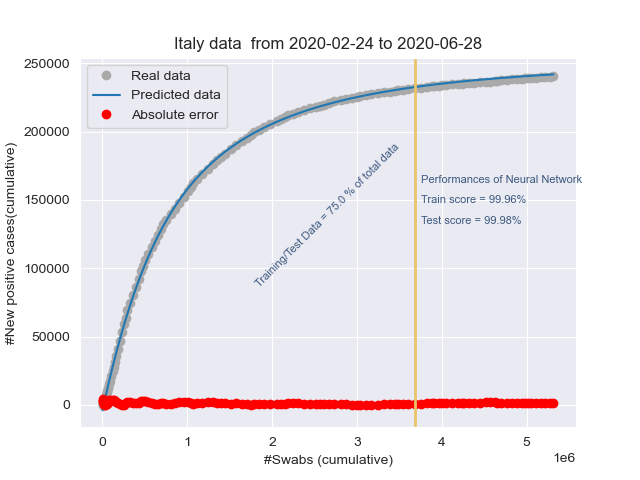
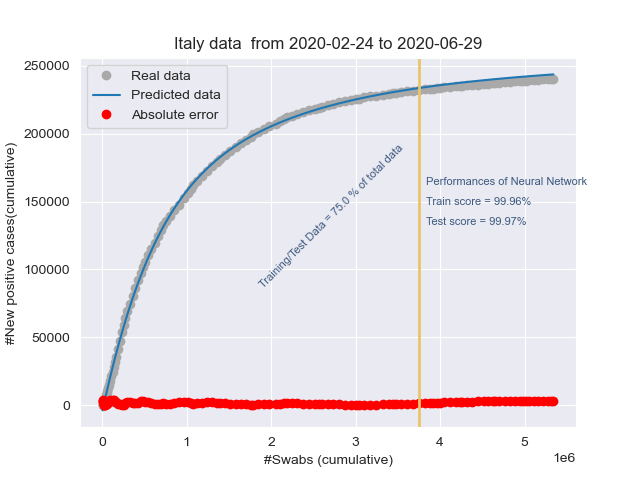
Add files via upload

diff --git a/stat_Friuli Venezia Giulia.html b/stat_Friuli Venezia Giulia.html
@@ -1,1 +1,1 @@
-<!DOCTYPE html><html lang="it"><head><title>Results</title><meta charset="utf-8"><meta name="viewport" content="width=device-width, initial-scale=1"><link rel="stylesheet" href="bootstrap.min.css"><script src="https://ajax.googleapis.com/ajax/libs/jquery/3.4.1/jquery.min.js"></script><script src="https://maxcdn.bootstrapcdn.com/bootstrap/3.4.1/js/bootstrap.min.js"></script></head><body><h3>Day: 2020-06-28</h3><p class="lead my-3">New positive cases: <b>1</b></p><p class="lead my-3">Variation of positive cases: <b>inf%</b></p><p class="lead my-3">Number of swabs: <b>1130.0</b></p><p class="lead my-3">Variation of swabs: <b>0.61%</b></p><p class="lead my-3">Postive cases/Swabs: <b>0.09 %</b></p><p class="lead my-3">Number of people admitted to Intensive care: <b>0</b></p><p class="lead my-3">Number of recovered people: <b>5.0</b></p><p class="lead my-3">Number of dead people: <b>0.0</b></p><h3>Total</h3><p class="lead my-3">Population of  Friuli Venezia Giulia: <b>1215220</b> <a href="http://dati.istat.it/Index.aspx?QueryId=18548" target="_blank">ISTAT data</a></p><p class="lead my-3">Total number of positive cases from 2020-02-24 00:00:00 to 2020-06-28: <b> 3308</b></p><p class="lead my-3">Total number of swabs from 2020-02-24 00:00:00 to 2020-06-28: <b> 186781</b></p><p class="lead my-3">TotalSwabs/Population: <b> 15.37%</b></p></body></html>
+<!DOCTYPE html><html lang="it"><head><title>Results</title><meta charset="utf-8"><meta name="viewport" content="width=device-width, initial-scale=1"><link rel="stylesheet" href="bootstrap.min.css"><script src="https://ajax.googleapis.com/ajax/libs/jquery/3.4.1/jquery.min.js"></script><script src="https://maxcdn.bootstrapcdn.com/bootstrap/3.4.1/js/bootstrap.min.js"></script></head><body><h3>Day: 2020-06-29</h3><p class="lead my-3">New positive cases: <b>0</b></p><p class="lead my-3">Variation of positive cases: <b>-100.0%</b></p><p class="lead my-3">Number of swabs: <b>719.0</b></p><p class="lead my-3">Variation of swabs: <b>0.38%</b></p><p class="lead my-3">Postive cases/Swabs: <b>0.0 %</b></p><p class="lead my-3">Number of people admitted to Intensive care: <b>0</b></p><p class="lead my-3">Number of recovered people: <b>2.0</b></p><p class="lead my-3">Number of dead people: <b>0.0</b></p><h3>Total</h3><p class="lead my-3">Population of  Friuli Venezia Giulia: <b>1215220</b> <a href="http://dati.istat.it/Index.aspx?QueryId=18548" target="_blank">ISTAT data</a></p><p class="lead my-3">Total number of positive cases from 2020-02-24 00:00:00 to 2020-06-29: <b> 3308</b></p><p class="lead my-3">Total number of swabs from 2020-02-24 00:00:00 to 2020-06-29: <b> 187500</b></p><p class="lead my-3">TotalSwabs/Population: <b> 15.43%</b></p></body></html>

diff --git a/stat_Emilia-Romagna.html b/stat_Emilia-Romagna.html
@@ -1,1 +1,1 @@
-<!DOCTYPE html><html lang="it"><head><title>Results</title><meta charset="utf-8"><meta name="viewport" content="width=device-width, initial-scale=1"><link rel="stylesheet" href="bootstrap.min.css"><script src="https://ajax.googleapis.com/ajax/libs/jquery/3.4.1/jquery.min.js"></script><script src="https://maxcdn.bootstrapcdn.com/bootstrap/3.4.1/js/bootstrap.min.js"></script></head><body><h3>Day: 2020-06-28</h3><p class="lead my-3">New positive cases: <b>21</b></p><p class="lead my-3">Variation of positive cases: <b>-50.0%</b></p><p class="lead my-3">Number of swabs: <b>3421.0</b></p><p class="lead my-3">Variation of swabs: <b>0.71%</b></p><p class="lead my-3">Postive cases/Swabs: <b>0.61 %</b></p><p class="lead my-3">Number of people admitted to Intensive care: <b>12</b></p><p class="lead my-3">Number of recovered people: <b>19.0</b></p><p class="lead my-3">Number of dead people: <b>1.0</b></p><h3>Total</h3><p class="lead my-3">Population of  Emilia-Romagna: <b>4459477</b> <a href="http://dati.istat.it/Index.aspx?QueryId=18548" target="_blank">ISTAT data</a></p><p class="lead my-3">Total number of positive cases from 2020-02-24 00:00:00 to 2020-06-28: <b> 28460</b></p><p class="lead my-3">Total number of swabs from 2020-02-24 00:00:00 to 2020-06-28: <b> 486730</b></p><p class="lead my-3">TotalSwabs/Population: <b> 10.91%</b></p></body></html>
+<!DOCTYPE html><html lang="it"><head><title>Results</title><meta charset="utf-8"><meta name="viewport" content="width=device-width, initial-scale=1"><link rel="stylesheet" href="bootstrap.min.css"><script src="https://ajax.googleapis.com/ajax/libs/jquery/3.4.1/jquery.min.js"></script><script src="https://maxcdn.bootstrapcdn.com/bootstrap/3.4.1/js/bootstrap.min.js"></script></head><body><h3>Day: 2020-06-29</h3><p class="lead my-3">New positive cases: <b>16</b></p><p class="lead my-3">Variation of positive cases: <b>-23.81%</b></p><p class="lead my-3">Number of swabs: <b>2721.0</b></p><p class="lead my-3">Variation of swabs: <b>0.56%</b></p><p class="lead my-3">Postive cases/Swabs: <b>0.59 %</b></p><p class="lead my-3">Number of people admitted to Intensive care: <b>12</b></p><p class="lead my-3">Number of recovered people: <b>24.0</b></p><p class="lead my-3">Number of dead people: <b>2.0</b></p><h3>Total</h3><p class="lead my-3">Population of  Emilia-Romagna: <b>4459477</b> <a href="http://dati.istat.it/Index.aspx?QueryId=18548" target="_blank">ISTAT data</a></p><p class="lead my-3">Total number of positive cases from 2020-02-24 00:00:00 to 2020-06-29: <b> 28476</b></p><p class="lead my-3">Total number of swabs from 2020-02-24 00:00:00 to 2020-06-29: <b> 489451</b></p><p class="lead my-3">TotalSwabs/Population: <b> 10.98%</b></p></body></html>

diff --git a/stat_Lombardia.html b/stat_Lombardia.html
@@ -1,1 +1,1 @@
-<!DOCTYPE html><html lang="it"><head><title>Results</title><meta charset="utf-8"><meta name="viewport" content="width=device-width, initial-scale=1"><link rel="stylesheet" href="bootstrap.min.css"><script src="https://ajax.googleapis.com/ajax/libs/jquery/3.4.1/jquery.min.js"></script><script src="https://maxcdn.bootstrapcdn.com/bootstrap/3.4.1/js/bootstrap.min.js"></script></head><body><h3>Day: 2020-06-28</h3><p class="lead my-3">New positive cases: <b>97</b></p><p class="lead my-3">Variation of positive cases: <b>25.97%</b></p><p class="lead my-3">Number of swabs: <b>8119.0</b></p><p class="lead my-3">Variation of swabs: <b>0.8%</b></p><p class="lead my-3">Postive cases/Swabs: <b>1.19 %</b></p><p class="lead my-3">Number of people admitted to Intensive care: <b>43</b></p><p class="lead my-3">Number of recovered people: <b>129.0</b></p><p class="lead my-3">Number of dead people: <b>13.0</b></p><h3>Total</h3><p class="lead my-3">Population of  Lombardia: <b>10060574</b> <a href="http://dati.istat.it/Index.aspx?QueryId=18548" target="_blank">ISTAT data</a></p><p class="lead my-3">Total number of positive cases from 2020-02-24 00:00:00 to 2020-06-28: <b> 93755</b></p><p class="lead my-3">Total number of swabs from 2020-02-24 00:00:00 to 2020-06-28: <b> 1022440</b></p><p class="lead my-3">TotalSwabs/Population: <b> 10.16%</b></p></body></html>
+<!DOCTYPE html><html lang="it"><head><title>Results</title><meta charset="utf-8"><meta name="viewport" content="width=device-width, initial-scale=1"><link rel="stylesheet" href="bootstrap.min.css"><script src="https://ajax.googleapis.com/ajax/libs/jquery/3.4.1/jquery.min.js"></script><script src="https://maxcdn.bootstrapcdn.com/bootstrap/3.4.1/js/bootstrap.min.js"></script></head><body><h3>Day: 2020-06-29</h3><p class="lead my-3">New positive cases: <b>78</b></p><p class="lead my-3">Variation of positive cases: <b>-19.59%</b></p><p class="lead my-3">Number of swabs: <b>7991.0</b></p><p class="lead my-3">Variation of swabs: <b>0.78%</b></p><p class="lead my-3">Postive cases/Swabs: <b>0.98 %</b></p><p class="lead my-3">Number of people admitted to Intensive care: <b>43</b></p><p class="lead my-3">Number of recovered people: <b>201.0</b></p><p class="lead my-3">Number of dead people: <b>1.0</b></p><h3>Total</h3><p class="lead my-3">Population of  Lombardia: <b>10060574</b> <a href="http://dati.istat.it/Index.aspx?QueryId=18548" target="_blank">ISTAT data</a></p><p class="lead my-3">Total number of positive cases from 2020-02-24 00:00:00 to 2020-06-29: <b> 93833</b></p><p class="lead my-3">Total number of swabs from 2020-02-24 00:00:00 to 2020-06-29: <b> 1030431</b></p><p class="lead my-3">TotalSwabs/Population: <b> 10.24%</b></p></body></html>

diff --git a/stat_Italy.html b/stat_Italy.html
@@ -1,1 +1,1 @@
-<!DOCTYPE html><html lang="it"><head><title>Results</title><meta charset="utf-8"><meta name="viewport" content="width=device-width, initial-scale=1"><link rel="stylesheet" href="bootstrap.min.css"><script src="https://ajax.googleapis.com/ajax/libs/jquery/3.4.1/jquery.min.js"></script><script src="https://maxcdn.bootstrapcdn.com/bootstrap/3.4.1/js/bootstrap.min.js"></script></head><body><h3>Day: 2020-06-28</h3><p class="lead my-3">New positive cases: <b>174</b></p><p class="lead my-3">Variation of positive cases: <b>-0.57%</b></p><p class="lead my-3">Number of swabs: <b>37346.0</b></p><p class="lead my-3">Variation of swabs: <b>0.71%</b></p><p class="lead my-3">Postive cases/Swabs: <b>0.47 %</b></p><p class="lead my-3">Number of people admitted to Intensive care: <b>98</b></p><p class="lead my-3">Number of recovered people: <b>307.0</b></p><p class="lead my-3">Number of dead people: <b>22.0</b></p><h3>Total</h3><p class="lead my-3">Population of  Italy: <b>60359546</b> <a href="http://dati.istat.it/Index.aspx?QueryId=18548" target="_blank">ISTAT data</a></p><p class="lead my-3">Total number of positive cases from 2020-02-24 00:00:00 to 2020-06-28: <b> 240327</b></p><p class="lead my-3">Total number of swabs from 2020-02-24 00:00:00 to 2020-06-28: <b> 5314619</b></p><p class="lead my-3">TotalSwabs/Population: <b> 8.8%</b></p></body></html>
+<!DOCTYPE html><html lang="it"><head><title>Results</title><meta charset="utf-8"><meta name="viewport" content="width=device-width, initial-scale=1"><link rel="stylesheet" href="bootstrap.min.css"><script src="https://ajax.googleapis.com/ajax/libs/jquery/3.4.1/jquery.min.js"></script><script src="https://maxcdn.bootstrapcdn.com/bootstrap/3.4.1/js/bootstrap.min.js"></script></head><body><h3>Day: 2020-06-29</h3><p class="lead my-3">New positive cases: <b>126</b></p><p class="lead my-3">Variation of positive cases: <b>-27.59%</b></p><p class="lead my-3">Number of swabs: <b>27218.0</b></p><p class="lead my-3">Variation of swabs: <b>0.51%</b></p><p class="lead my-3">Postive cases/Swabs: <b>0.46 %</b></p><p class="lead my-3">Number of people admitted to Intensive care: <b>96</b></p><p class="lead my-3">Number of recovered people: <b>305.0</b></p><p class="lead my-3">Number of dead people: <b>6.0</b></p><h3>Total</h3><p class="lead my-3">Population of  Italy: <b>60359546</b> <a href="http://dati.istat.it/Index.aspx?QueryId=18548" target="_blank">ISTAT data</a></p><p class="lead my-3">Total number of positive cases from 2020-02-24 00:00:00 to 2020-06-29: <b> 240453</b></p><p class="lead my-3">Total number of swabs from 2020-02-24 00:00:00 to 2020-06-29: <b> 5341837</b></p><p class="lead my-3">TotalSwabs/Population: <b> 8.85%</b></p></body></html>

diff --git a/stat_Piemonte.html b/stat_Piemonte.html
@@ -1,1 +1,1 @@
-<!DOCTYPE html><html lang="it"><head><title>Results</title><meta charset="utf-8"><meta name="viewport" content="width=device-width, initial-scale=1"><link rel="stylesheet" href="bootstrap.min.css"><script src="https://ajax.googleapis.com/ajax/libs/jquery/3.4.1/jquery.min.js"></script><script src="https://maxcdn.bootstrapcdn.com/bootstrap/3.4.1/js/bootstrap.min.js"></script></head><body><h3>Day: 2020-06-28</h3><p class="lead my-3">New positive cases: <b>14</b></p><p class="lead my-3">Variation of positive cases: <b>27.27%</b></p><p class="lead my-3">Number of swabs: <b>1977.0</b></p><p class="lead my-3">Variation of swabs: <b>0.48%</b></p><p class="lead my-3">Postive cases/Swabs: <b>0.71 %</b></p><p class="lead my-3">Number of people admitted to Intensive care: <b>12</b></p><p class="lead my-3">Number of recovered people: <b>17.0</b></p><p class="lead my-3">Number of dead people: <b>5.0</b></p><h3>Total</h3><p class="lead my-3">Population of  Piemonte: <b>4356406</b> <a href="http://dati.istat.it/Index.aspx?QueryId=18548" target="_blank">ISTAT data</a></p><p class="lead my-3">Total number of positive cases from 2020-02-24 00:00:00 to 2020-06-28: <b> 31336</b></p><p class="lead my-3">Total number of swabs from 2020-02-24 00:00:00 to 2020-06-28: <b> 410813</b></p><p class="lead my-3">TotalSwabs/Population: <b> 9.43%</b></p></body></html>
+<!DOCTYPE html><html lang="it"><head><title>Results</title><meta charset="utf-8"><meta name="viewport" content="width=device-width, initial-scale=1"><link rel="stylesheet" href="bootstrap.min.css"><script src="https://ajax.googleapis.com/ajax/libs/jquery/3.4.1/jquery.min.js"></script><script src="https://maxcdn.bootstrapcdn.com/bootstrap/3.4.1/js/bootstrap.min.js"></script></head><body><h3>Day: 2020-06-29</h3><p class="lead my-3">New positive cases: <b>2</b></p><p class="lead my-3">Variation of positive cases: <b>-85.71%</b></p><p class="lead my-3">Number of swabs: <b>1126.0</b></p><p class="lead my-3">Variation of swabs: <b>0.27%</b></p><p class="lead my-3">Postive cases/Swabs: <b>0.18 %</b></p><p class="lead my-3">Number of people admitted to Intensive care: <b>11</b></p><p class="lead my-3">Number of recovered people: <b>5.0</b></p><p class="lead my-3">Number of dead people: <b>2.0</b></p><h3>Total</h3><p class="lead my-3">Population of  Piemonte: <b>4356406</b> <a href="http://dati.istat.it/Index.aspx?QueryId=18548" target="_blank">ISTAT data</a></p><p class="lead my-3">Total number of positive cases from 2020-02-24 00:00:00 to 2020-06-29: <b> 31338</b></p><p class="lead my-3">Total number of swabs from 2020-02-24 00:00:00 to 2020-06-29: <b> 411939</b></p><p class="lead my-3">TotalSwabs/Population: <b> 9.46%</b></p></body></html>

diff --git a/stat_P.A. Trento.html b/stat_P.A. Trento.html
@@ -1,1 +1,1 @@
-<!DOCTYPE html><html lang="it"><head><title>Results</title><meta charset="utf-8"><meta name="viewport" content="width=device-width, initial-scale=1"><link rel="stylesheet" href="bootstrap.min.css"><script src="https://ajax.googleapis.com/ajax/libs/jquery/3.4.1/jquery.min.js"></script><script src="https://maxcdn.bootstrapcdn.com/bootstrap/3.4.1/js/bootstrap.min.js"></script></head><body><h3>Day: 2020-06-28</h3><p class="lead my-3">New positive cases: <b>3</b></p><p class="lead my-3">Variation of positive cases: <b>200.0%</b></p><p class="lead my-3">Number of swabs: <b>1026.0</b></p><p class="lead my-3">Variation of swabs: <b>0.86%</b></p><p class="lead my-3">Postive cases/Swabs: <b>0.29 %</b></p><p class="lead my-3">Number of people admitted to Intensive care: <b>0</b></p><p class="lead my-3">Number of recovered people: <b>0.0</b></p><p class="lead my-3">Number of dead people: <b>0.0</b></p><h3>Total</h3><p class="lead my-3">Population of  P.A. Trento: <b>541098</b> <a href="http://dati.istat.it/Index.aspx?QueryId=18548" target="_blank">ISTAT data</a></p><p class="lead my-3">Total number of positive cases from 2020-02-24 00:00:00 to 2020-06-28: <b> 4476</b></p><p class="lead my-3">Total number of swabs from 2020-02-24 00:00:00 to 2020-06-28: <b> 120065</b></p><p class="lead my-3">TotalSwabs/Population: <b> 22.19%</b></p></body></html>
+<!DOCTYPE html><html lang="it"><head><title>Results</title><meta charset="utf-8"><meta name="viewport" content="width=device-width, initial-scale=1"><link rel="stylesheet" href="bootstrap.min.css"><script src="https://ajax.googleapis.com/ajax/libs/jquery/3.4.1/jquery.min.js"></script><script src="https://maxcdn.bootstrapcdn.com/bootstrap/3.4.1/js/bootstrap.min.js"></script></head><body><h3>Day: 2020-06-29</h3><p class="lead my-3">New positive cases: <b>0</b></p><p class="lead my-3">Variation of positive cases: <b>-100.0%</b></p><p class="lead my-3">Number of swabs: <b>103.0</b></p><p class="lead my-3">Variation of swabs: <b>0.09%</b></p><p class="lead my-3">Postive cases/Swabs: <b>0.0 %</b></p><p class="lead my-3">Number of people admitted to Intensive care: <b>0</b></p><p class="lead my-3">Number of recovered people: <b>1.0</b></p><p class="lead my-3">Number of dead people: <b>0.0</b></p><h3>Total</h3><p class="lead my-3">Population of  P.A. Trento: <b>541098</b> <a href="http://dati.istat.it/Index.aspx?QueryId=18548" target="_blank">ISTAT data</a></p><p class="lead my-3">Total number of positive cases from 2020-02-24 00:00:00 to 2020-06-29: <b> 4476</b></p><p class="lead my-3">Total number of swabs from 2020-02-24 00:00:00 to 2020-06-29: <b> 120168</b></p><p class="lead my-3">TotalSwabs/Population: <b> 22.21%</b></p></body></html>

diff --git a/stat_P.A. Bolzano.html b/stat_P.A. Bolzano.html
@@ -1,1 +1,1 @@
-<!DOCTYPE html><html lang="it"><head><title>Results</title><meta charset="utf-8"><meta name="viewport" content="width=device-width, initial-scale=1"><link rel="stylesheet" href="bootstrap.min.css"><script src="https://ajax.googleapis.com/ajax/libs/jquery/3.4.1/jquery.min.js"></script><script src="https://maxcdn.bootstrapcdn.com/bootstrap/3.4.1/js/bootstrap.min.js"></script></head><body><h3>Day: 2020-06-28</h3><p class="lead my-3">New positive cases: <b>1</b></p><p class="lead my-3">Variation of positive cases: <b>-50.0%</b></p><p class="lead my-3">Number of swabs: <b>405.0</b></p><p class="lead my-3">Variation of swabs: <b>0.49%</b></p><p class="lead my-3">Postive cases/Swabs: <b>0.25 %</b></p><p class="lead my-3">Number of people admitted to Intensive care: <b>1</b></p><p class="lead my-3">Number of recovered people: <b>3.0</b></p><p class="lead my-3">Number of dead people: <b>0.0</b></p><h3>Total</h3><p class="lead my-3">Population of  P.A. Bolzano: <b>531178</b> <a href="http://dati.istat.it/Index.aspx?QueryId=18548" target="_blank">ISTAT data</a></p><p class="lead my-3">Total number of positive cases from 2020-02-24 00:00:00 to 2020-06-28: <b> 2636</b></p><p class="lead my-3">Total number of swabs from 2020-02-24 00:00:00 to 2020-06-28: <b> 83445</b></p><p class="lead my-3">TotalSwabs/Population: <b> 15.71%</b></p></body></html>
+<!DOCTYPE html><html lang="it"><head><title>Results</title><meta charset="utf-8"><meta name="viewport" content="width=device-width, initial-scale=1"><link rel="stylesheet" href="bootstrap.min.css"><script src="https://ajax.googleapis.com/ajax/libs/jquery/3.4.1/jquery.min.js"></script><script src="https://maxcdn.bootstrapcdn.com/bootstrap/3.4.1/js/bootstrap.min.js"></script></head><body><h3>Day: 2020-06-29</h3><p class="lead my-3">New positive cases: <b>2</b></p><p class="lead my-3">Variation of positive cases: <b>100.0%</b></p><p class="lead my-3">Number of swabs: <b>284.0</b></p><p class="lead my-3">Variation of swabs: <b>0.34%</b></p><p class="lead my-3">Postive cases/Swabs: <b>0.7 %</b></p><p class="lead my-3">Number of people admitted to Intensive care: <b>1</b></p><p class="lead my-3">Number of recovered people: <b>2.0</b></p><p class="lead my-3">Number of dead people: <b>0.0</b></p><h3>Total</h3><p class="lead my-3">Population of  P.A. Bolzano: <b>531178</b> <a href="http://dati.istat.it/Index.aspx?QueryId=18548" target="_blank">ISTAT data</a></p><p class="lead my-3">Total number of positive cases from 2020-02-24 00:00:00 to 2020-06-29: <b> 2638</b></p><p class="lead my-3">Total number of swabs from 2020-02-24 00:00:00 to 2020-06-29: <b> 83729</b></p><p class="lead my-3">TotalSwabs/Population: <b> 15.76%</b></p></body></html>

diff --git a/stat_Veneto.html b/stat_Veneto.html
@@ -1,1 +1,1 @@
-<!DOCTYPE html><html lang="it"><head><title>Results</title><meta charset="utf-8"><meta name="viewport" content="width=device-width, initial-scale=1"><link rel="stylesheet" href="bootstrap.min.css"><script src="https://ajax.googleapis.com/ajax/libs/jquery/3.4.1/jquery.min.js"></script><script src="https://maxcdn.bootstrapcdn.com/bootstrap/3.4.1/js/bootstrap.min.js"></script></head><body><h3>Day: 2020-06-28</h3><p class="lead my-3">New positive cases: <b>11</b></p><p class="lead my-3">Variation of positive cases: <b>450.0%</b></p><p class="lead my-3">Number of swabs: <b>6593.0</b></p><p class="lead my-3">Variation of swabs: <b>0.7%</b></p><p class="lead my-3">Postive cases/Swabs: <b>0.17 %</b></p><p class="lead my-3">Number of people admitted to Intensive care: <b>1</b></p><p class="lead my-3">Number of recovered people: <b>32.0</b></p><p class="lead my-3">Number of dead people: <b>1.0</b></p><h3>Total</h3><p class="lead my-3">Population of  Veneto: <b>4905854</b> <a href="http://dati.istat.it/Index.aspx?QueryId=18548" target="_blank">ISTAT data</a></p><p class="lead my-3">Total number of positive cases from 2020-02-24 00:00:00 to 2020-06-28: <b> 19274</b></p><p class="lead my-3">Total number of swabs from 2020-02-24 00:00:00 to 2020-06-28: <b> 944010</b></p><p class="lead my-3">TotalSwabs/Population: <b> 19.24%</b></p></body></html>
+<!DOCTYPE html><html lang="it"><head><title>Results</title><meta charset="utf-8"><meta name="viewport" content="width=device-width, initial-scale=1"><link rel="stylesheet" href="bootstrap.min.css"><script src="https://ajax.googleapis.com/ajax/libs/jquery/3.4.1/jquery.min.js"></script><script src="https://maxcdn.bootstrapcdn.com/bootstrap/3.4.1/js/bootstrap.min.js"></script></head><body><h3>Day: 2020-06-29</h3><p class="lead my-3">New positive cases: <b>3</b></p><p class="lead my-3">Variation of positive cases: <b>-72.73%</b></p><p class="lead my-3">Number of swabs: <b>4861.0</b></p><p class="lead my-3">Variation of swabs: <b>0.51%</b></p><p class="lead my-3">Postive cases/Swabs: <b>0.06 %</b></p><p class="lead my-3">Number of people admitted to Intensive care: <b>1</b></p><p class="lead my-3">Number of recovered people: <b>1.0</b></p><p class="lead my-3">Number of dead people: <b>0.0</b></p><h3>Total</h3><p class="lead my-3">Population of  Veneto: <b>4905854</b> <a href="http://dati.istat.it/Index.aspx?QueryId=18548" target="_blank">ISTAT data</a></p><p class="lead my-3">Total number of positive cases from 2020-02-24 00:00:00 to 2020-06-29: <b> 19277</b></p><p class="lead my-3">Total number of swabs from 2020-02-24 00:00:00 to 2020-06-29: <b> 948871</b></p><p class="lead my-3">TotalSwabs/Population: <b> 19.34%</b></p></body></html>

diff --git a/stat_Lazio.html b/stat_Lazio.html
@@ -1,1 +1,1 @@
-<!DOCTYPE html><html lang="it"><head><title>Results</title><meta charset="utf-8"><meta name="viewport" content="width=device-width, initial-scale=1"><link rel="stylesheet" href="bootstrap.min.css"><script src="https://ajax.googleapis.com/ajax/libs/jquery/3.4.1/jquery.min.js"></script><script src="https://maxcdn.bootstrapcdn.com/bootstrap/3.4.1/js/bootstrap.min.js"></script></head><body><h3>Day: 2020-06-28</h3><p class="lead my-3">New positive cases: <b>14</b></p><p class="lead my-3">Variation of positive cases: <b>-22.22%</b></p><p class="lead my-3">Number of swabs: <b>2253.0</b></p><p class="lead my-3">Variation of swabs: <b>0.68%</b></p><p class="lead my-3">Postive cases/Swabs: <b>0.62 %</b></p><p class="lead my-3">Number of people admitted to Intensive care: <b>13</b></p><p class="lead my-3">Number of recovered people: <b>0.0</b></p><p class="lead my-3">Number of dead people: <b>0.0</b></p><h3>Total</h3><p class="lead my-3">Population of  Lazio: <b>5879082</b> <a href="http://dati.istat.it/Index.aspx?QueryId=18548" target="_blank">ISTAT data</a></p><p class="lead my-3">Total number of positive cases from 2020-02-24 00:00:00 to 2020-06-28: <b> 8095</b></p><p class="lead my-3">Total number of swabs from 2020-02-24 00:00:00 to 2020-06-28: <b> 333852</b></p><p class="lead my-3">TotalSwabs/Population: <b> 5.68%</b></p></body></html>
+<!DOCTYPE html><html lang="it"><head><title>Results</title><meta charset="utf-8"><meta name="viewport" content="width=device-width, initial-scale=1"><link rel="stylesheet" href="bootstrap.min.css"><script src="https://ajax.googleapis.com/ajax/libs/jquery/3.4.1/jquery.min.js"></script><script src="https://maxcdn.bootstrapcdn.com/bootstrap/3.4.1/js/bootstrap.min.js"></script></head><body><h3>Day: 2020-06-29</h3><p class="lead my-3">New positive cases: <b>9</b></p><p class="lead my-3">Variation of positive cases: <b>-35.71%</b></p><p class="lead my-3">Number of swabs: <b>1899.0</b></p><p class="lead my-3">Variation of swabs: <b>0.57%</b></p><p class="lead my-3">Postive cases/Swabs: <b>0.47 %</b></p><p class="lead my-3">Number of people admitted to Intensive care: <b>13</b></p><p class="lead my-3">Number of recovered people: <b>10.0</b></p><p class="lead my-3">Number of dead people: <b>0.0</b></p><h3>Total</h3><p class="lead my-3">Population of  Lazio: <b>5879082</b> <a href="http://dati.istat.it/Index.aspx?QueryId=18548" target="_blank">ISTAT data</a></p><p class="lead my-3">Total number of positive cases from 2020-02-24 00:00:00 to 2020-06-29: <b> 8104</b></p><p class="lead my-3">Total number of swabs from 2020-02-24 00:00:00 to 2020-06-29: <b> 335751</b></p><p class="lead my-3">TotalSwabs/Population: <b> 5.71%</b></p></body></html>

diff --git a/stat_Toscana.html b/stat_Toscana.html
@@ -1,1 +1,1 @@
-<!DOCTYPE html><html lang="it"><head><title>Results</title><meta charset="utf-8"><meta name="viewport" content="width=device-width, initial-scale=1"><link rel="stylesheet" href="bootstrap.min.css"><script src="https://ajax.googleapis.com/ajax/libs/jquery/3.4.1/jquery.min.js"></script><script src="https://maxcdn.bootstrapcdn.com/bootstrap/3.4.1/js/bootstrap.min.js"></script></head><body><h3>Day: 2020-06-28</h3><p class="lead my-3">New positive cases: <b>5</b></p><p class="lead my-3">Variation of positive cases: <b>-58.33%</b></p><p class="lead my-3">Number of swabs: <b>2893.0</b></p><p class="lead my-3">Variation of swabs: <b>0.88%</b></p><p class="lead my-3">Postive cases/Swabs: <b>0.17 %</b></p><p class="lead my-3">Number of people admitted to Intensive care: <b>6</b></p><p class="lead my-3">Number of recovered people: <b>0.0</b></p><p class="lead my-3">Number of dead people: <b>0.0</b></p><h3>Total</h3><p class="lead my-3">Population of  Toscana: <b>3729641</b> <a href="http://dati.istat.it/Index.aspx?QueryId=18548" target="_blank">ISTAT data</a></p><p class="lead my-3">Total number of positive cases from 2020-02-24 00:00:00 to 2020-06-28: <b> 10243</b></p><p class="lead my-3">Total number of swabs from 2020-02-24 00:00:00 to 2020-06-28: <b> 332758</b></p><p class="lead my-3">TotalSwabs/Population: <b> 8.92%</b></p></body></html>
+<!DOCTYPE html><html lang="it"><head><title>Results</title><meta charset="utf-8"><meta name="viewport" content="width=device-width, initial-scale=1"><link rel="stylesheet" href="bootstrap.min.css"><script src="https://ajax.googleapis.com/ajax/libs/jquery/3.4.1/jquery.min.js"></script><script src="https://maxcdn.bootstrapcdn.com/bootstrap/3.4.1/js/bootstrap.min.js"></script></head><body><h3>Day: 2020-06-29</h3><p class="lead my-3">New positive cases: <b>5</b></p><p class="lead my-3">Variation of positive cases: <b>0.0%</b></p><p class="lead my-3">Number of swabs: <b>1440.0</b></p><p class="lead my-3">Variation of swabs: <b>0.43%</b></p><p class="lead my-3">Postive cases/Swabs: <b>0.35 %</b></p><p class="lead my-3">Number of people admitted to Intensive care: <b>6</b></p><p class="lead my-3">Number of recovered people: <b>0.0</b></p><p class="lead my-3">Number of dead people: <b>1.0</b></p><h3>Total</h3><p class="lead my-3">Population of  Toscana: <b>3729641</b> <a href="http://dati.istat.it/Index.aspx?QueryId=18548" target="_blank">ISTAT data</a></p><p class="lead my-3">Total number of positive cases from 2020-02-24 00:00:00 to 2020-06-29: <b> 10248</b></p><p class="lead my-3">Total number of swabs from 2020-02-24 00:00:00 to 2020-06-29: <b> 334198</b></p><p class="lead my-3">TotalSwabs/Population: <b> 8.96%</b></p></body></html>

diff --git a/stat_Liguria.html b/stat_Liguria.html
@@ -1,1 +1,1 @@
-<!DOCTYPE html><html lang="it"><head><title>Results</title><meta charset="utf-8"><meta name="viewport" content="width=device-width, initial-scale=1"><link rel="stylesheet" href="bootstrap.min.css"><script src="https://ajax.googleapis.com/ajax/libs/jquery/3.4.1/jquery.min.js"></script><script src="https://maxcdn.bootstrapcdn.com/bootstrap/3.4.1/js/bootstrap.min.js"></script></head><body><h3>Day: 2020-06-28</h3><p class="lead my-3">New positive cases: <b>4</b></p><p class="lead my-3">Variation of positive cases: <b>-20.0%</b></p><p class="lead my-3">Number of swabs: <b>955.0</b></p><p class="lead my-3">Variation of swabs: <b>0.66%</b></p><p class="lead my-3">Postive cases/Swabs: <b>0.42 %</b></p><p class="lead my-3">Number of people admitted to Intensive care: <b>3</b></p><p class="lead my-3">Number of recovered people: <b>-1.0</b></p><p class="lead my-3">Number of dead people: <b>1.0</b></p><h3>Total</h3><p class="lead my-3">Population of  Liguria: <b>1550640</b> <a href="http://dati.istat.it/Index.aspx?QueryId=18548" target="_blank">ISTAT data</a></p><p class="lead my-3">Total number of positive cases from 2020-02-24 00:00:00 to 2020-06-28: <b> 9967</b></p><p class="lead my-3">Total number of swabs from 2020-02-24 00:00:00 to 2020-06-28: <b> 145111</b></p><p class="lead my-3">TotalSwabs/Population: <b> 9.36%</b></p></body></html>
+<!DOCTYPE html><html lang="it"><head><title>Results</title><meta charset="utf-8"><meta name="viewport" content="width=device-width, initial-scale=1"><link rel="stylesheet" href="bootstrap.min.css"><script src="https://ajax.googleapis.com/ajax/libs/jquery/3.4.1/jquery.min.js"></script><script src="https://maxcdn.bootstrapcdn.com/bootstrap/3.4.1/js/bootstrap.min.js"></script></head><body><h3>Day: 2020-06-29</h3><p class="lead my-3">New positive cases: <b>7</b></p><p class="lead my-3">Variation of positive cases: <b>75.0%</b></p><p class="lead my-3">Number of swabs: <b>791.0</b></p><p class="lead my-3">Variation of swabs: <b>0.55%</b></p><p class="lead my-3">Postive cases/Swabs: <b>0.88 %</b></p><p class="lead my-3">Number of people admitted to Intensive care: <b>3</b></p><p class="lead my-3">Number of recovered people: <b>2.0</b></p><p class="lead my-3">Number of dead people: <b>0.0</b></p><h3>Total</h3><p class="lead my-3">Population of  Liguria: <b>1550640</b> <a href="http://dati.istat.it/Index.aspx?QueryId=18548" target="_blank">ISTAT data</a></p><p class="lead my-3">Total number of positive cases from 2020-02-24 00:00:00 to 2020-06-29: <b> 9974</b></p><p class="lead my-3">Total number of swabs from 2020-02-24 00:00:00 to 2020-06-29: <b> 145902</b></p><p class="lead my-3">TotalSwabs/Population: <b> 9.41%</b></p></body></html>

diff --git a/stat_Sicilia.html b/stat_Sicilia.html
@@ -1,1 +1,1 @@
-<!DOCTYPE html><html lang="it"><head><title>Results</title><meta charset="utf-8"><meta name="viewport" content="width=device-width, initial-scale=1"><link rel="stylesheet" href="bootstrap.min.css"><script src="https://ajax.googleapis.com/ajax/libs/jquery/3.4.1/jquery.min.js"></script><script src="https://maxcdn.bootstrapcdn.com/bootstrap/3.4.1/js/bootstrap.min.js"></script></head><body><h3>Day: 2020-06-28</h3><p class="lead my-3">New positive cases: <b>0</b></p><p class="lead my-3">Variation of positive cases: <b>-100.0%</b></p><p class="lead my-3">Number of swabs: <b>1308.0</b></p><p class="lead my-3">Variation of swabs: <b>0.64%</b></p><p class="lead my-3">Postive cases/Swabs: <b>0.0 %</b></p><p class="lead my-3">Number of people admitted to Intensive care: <b>4</b></p><p class="lead my-3">Number of recovered people: <b>0.0</b></p><p class="lead my-3">Number of dead people: <b>0.0</b></p><h3>Total</h3><p class="lead my-3">Population of  Sicilia: <b>4999891</b> <a href="http://dati.istat.it/Index.aspx?QueryId=18548" target="_blank">ISTAT data</a></p><p class="lead my-3">Total number of positive cases from 2020-02-24 00:00:00 to 2020-06-28: <b> 3474</b></p><p class="lead my-3">Total number of swabs from 2020-02-24 00:00:00 to 2020-06-28: <b> 205492</b></p><p class="lead my-3">TotalSwabs/Population: <b> 4.11%</b></p></body></html>
+<!DOCTYPE html><html lang="it"><head><title>Results</title><meta charset="utf-8"><meta name="viewport" content="width=device-width, initial-scale=1"><link rel="stylesheet" href="bootstrap.min.css"><script src="https://ajax.googleapis.com/ajax/libs/jquery/3.4.1/jquery.min.js"></script><script src="https://maxcdn.bootstrapcdn.com/bootstrap/3.4.1/js/bootstrap.min.js"></script></head><body><h3>Day: 2020-06-29</h3><p class="lead my-3">New positive cases: <b>1</b></p><p class="lead my-3">Variation of positive cases: <b>inf%</b></p><p class="lead my-3">Number of swabs: <b>1058.0</b></p><p class="lead my-3">Variation of swabs: <b>0.51%</b></p><p class="lead my-3">Postive cases/Swabs: <b>0.09 %</b></p><p class="lead my-3">Number of people admitted to Intensive care: <b>3</b></p><p class="lead my-3">Number of recovered people: <b>4.0</b></p><p class="lead my-3">Number of dead people: <b>0.0</b></p><h3>Total</h3><p class="lead my-3">Population of  Sicilia: <b>4999891</b> <a href="http://dati.istat.it/Index.aspx?QueryId=18548" target="_blank">ISTAT data</a></p><p class="lead my-3">Total number of positive cases from 2020-02-24 00:00:00 to 2020-06-29: <b> 3475</b></p><p class="lead my-3">Total number of swabs from 2020-02-24 00:00:00 to 2020-06-29: <b> 206550</b></p><p class="lead my-3">TotalSwabs/Population: <b> 4.13%</b></p></body></html>
